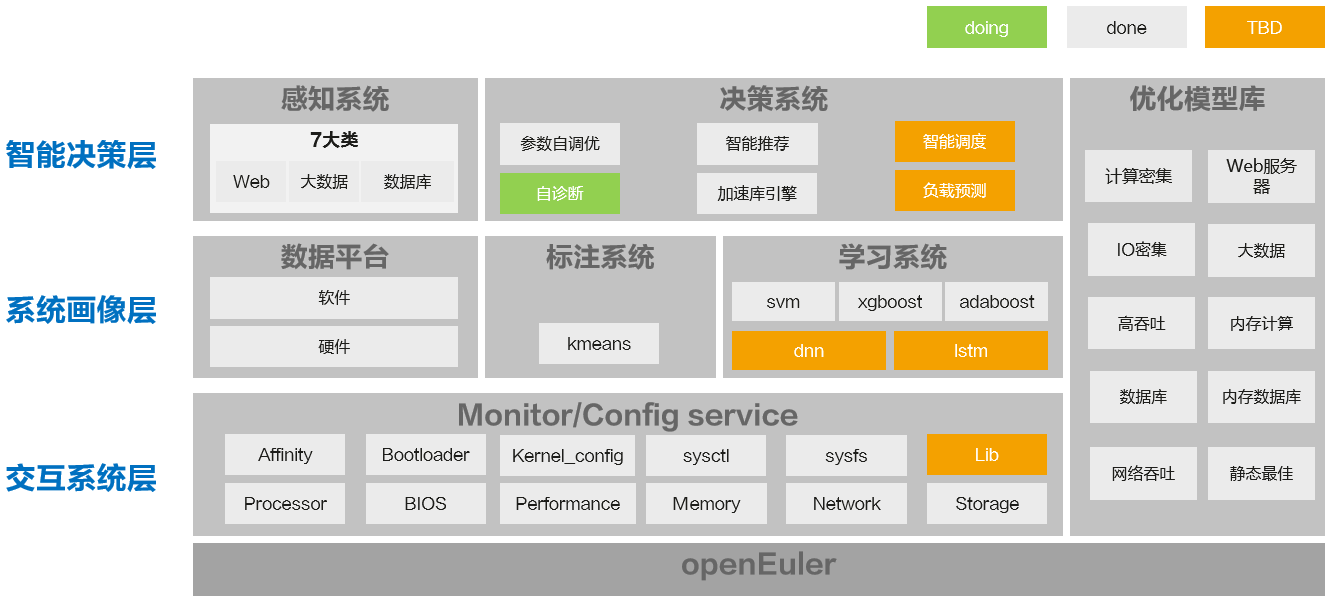
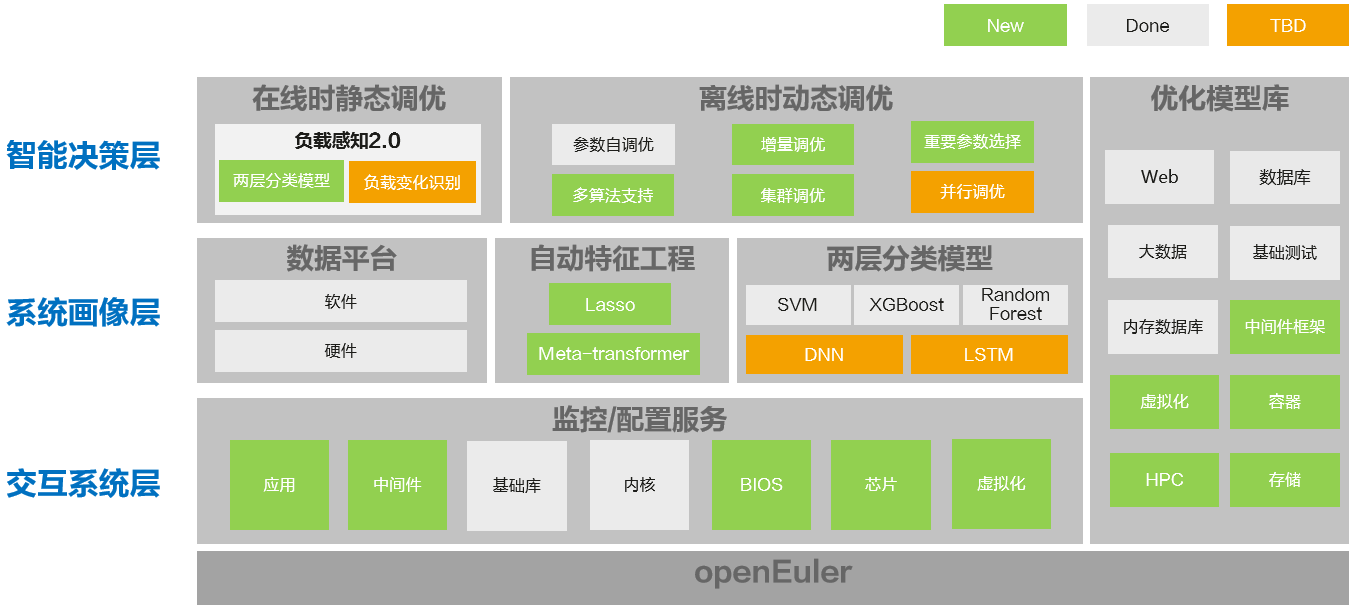
atune: update user guide

diff --git a/Documentation/UserGuide/A-Tune-User-Guide.md b/Documentation/UserGuide/A-Tune-User-Guide.md
@@ -48,7 +48,7 @@ The following figure shows the A-Tune core technical architecture, which consist
 
 l  Intelligent decision-making layer: consists of the awareness and decision-making subsystems, which implements intelligent awareness of applications and system optimization decision-making, respectively.
 
-l  System profile layer: consists of the labeling and learning subsystems. The labeling subsystem is used to cluster service models, and the learning subsystem is used to learn and classify service models.
+l  System profile layer: consists of the feature engineering and two-layer classification model. The feature engineering is used to automatically select service features, and the two-layer classification model is used to learn and classify service models.
 
 l  Interaction system layer: monitors and configures various system resources and executes optimization policies.
 
@@ -947,11 +947,11 @@ Check the CPU, BIOS, OS, and NIC information.
    name: eth1       product: HNS GE/10GE/25GE Network Controller 
    name: eth2       product: HNS GE/10GE/25GE RDMA Network Controller 
    name: eth3       product: HNS GE/10GE/25GE Network Controller 
-   name: eth4        product: HNS GE/10GE/25GE RDMA Network Controller 
+   name: eth4       product: HNS GE/10GE/25GE RDMA Network Controller 
    name: eth5       product: HNS GE/10GE/25GE Network Controller 
    name: eth6       product: HNS GE/10GE/25GE RDMA Network Controller 
    name: eth7       product: HNS GE/10GE/25GE Network Controller 
-   name: docker0      product:
+   name: docker0    product:
 ```
 
 ## 3.11 Automatic Parameter Optimization
@@ -975,7 +975,7 @@ Use the specified project file to search the dynamic space for parameters and fi
 > Before running the command, ensure that the following conditions are met:
 >
 > 1. The YAML configuration file on the server has been edited and stored in the **/etc/atuned/tuning/** directory of the atuned service.
-> 2. The YAML configuration file of the client has been compiled and stored on the atuned client.
+> 2. The YAML configuration file of the client has been edited and stored on the atuned client.
 
 **Parameter Description**
 
@@ -1020,10 +1020,10 @@ Configuration Description
 | set         | Script for setting parameter values.                         | -                | -                                                            |
 | needrestart | Specifies whether to restart the service  for the parameter to take effect. | Enumeration      | **true** or **false**                                        |
 | type        | Parameter type. Currently, the **discrete** and **continuous** types are supported. | Enumeration      | **discrete** or **continuous**                               |
-| dtype       | This parameter is available only when  type is set to **discrete**.  Currently, only **int** and **string** are supported. | Enumeration      | int, string                                                  |
-| scope       | Parameter setting range. This parameter  is valid only when type is set to **discrete**  and dtype is set to **int**, or type  is set to **continuous**. | Integer          | The value is user-defined and must be  within the valid range of this parameter. |
-| step        | Parameter value step, which is used when **dtype** is set to **int**. | Integer          | This value is user-defined.                                  |
-| items       | Enumerated value of which the parameter  value is not within the scope. This is used when **dtype** is set to **int**. | Integer          | The value is user-defined and must be  within the valid range of this parameter. |
+| dtype       | This parameter is available only when  type is set to **discrete**.  Currently, only **int**, **float** and **string** are supported. | Enumeration      | int, float, string                                           |
+| scope       | Parameter setting range. This parameter  is valid only when type is set to **discrete**  and dtype is set to **int** or **float**, or type  is set to **continuous**. | Integer/Float    | The value is user-defined and must be  within the valid range of this parameter. |
+| step        | Parameter value step, which is used when **dtype** is set to **int** or **float**. | Integer/Float    | This value is user-defined.                                  |
+| items       | Enumerated value of which the parameter  value is not within the scope. This is used when **dtype** is set to **int **or **float**. | Integer/Float    | The value is user-defined and must be  within the valid range of this parameter. |
 | options     | Enumerated value range of the parameter  value, which is used when **dtype** is  set to **string**. | Character string | The value is user-defined and must be  within the valid range of this parameter. |
 
  
@@ -1036,10 +1036,10 @@ Configuration Description
 | engine                | Tuning algorithm.                                            | Character string | "random", "forest", "gbrt", "bayes", "extraTrees" |
 | iterations            | Number of optimization iterations.                           | Integer          | ≥ 10                                              |
 | random_starts         | Number of random iterations.                                 | Integer          | < iterations                                      |
-| feature_filter_engine | Parameter search algorithm.                                  | Character string | "lhs"                                             |
-| feature_filter_cycle  | Parameter search cycles.                                     | Integer          | -                                                 |
-| feature_filter_iters  | Number of iterations for each cycle of parameter search.     | Integer          | -                                                 |
-| split_count           | Number of evenly selected parameters in the value range of tuning parameters. | Integer          | -                                                 |
+| feature_filter_engine | Parameter search algorithm, which is used to select important parameters. This parameter is optional. | Character string | "lhs"                                             |
+| feature_filter_cycle  | Parameter search cycles, which is used to select important parameters. This parameter is used together with feature_filter_engine. | Integer          | -                                                 |
+| feature_filter_iters  | Number of iterations for each cycle of parameter search, which is used to select important parameters. This parameter is used together with feature_filter_engine. | Integer          | -                                                 |
+| split_count           | Number of evenly selected parameters in the value range of tuning parameters, which is used to select important parameters. This parameter is used together with feature_filter_engine. | Integer          | -                                                 |
 | benchmark             | Performance test script.                                     | -                | -                                                 |
 | evaluations           | Performance test evaluation index.  For details about the evaluations  configuration items, see Table 3-4. | -                | -                                                 |
 
